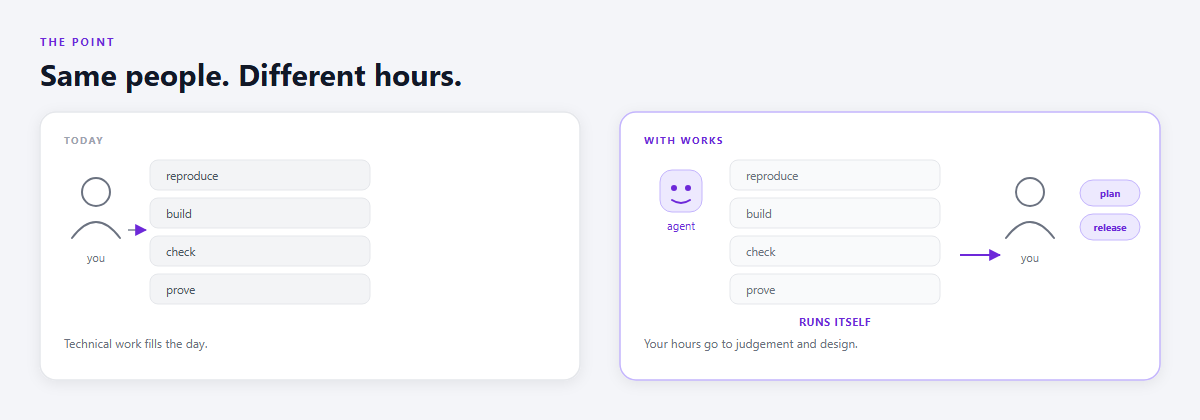
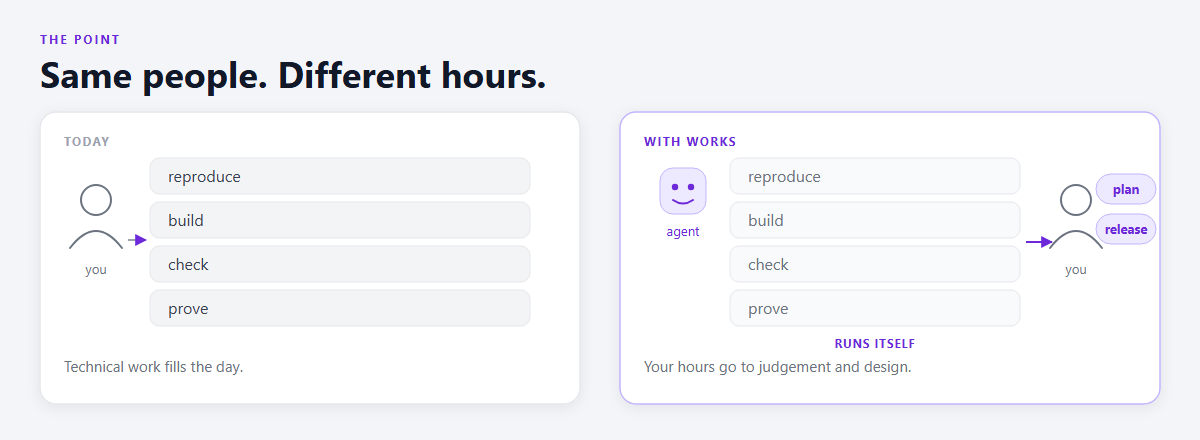
docs: make the point diagram fill the width and stay readable

diff --git a/README.md b/README.md
@@ -29,7 +29,7 @@ plan and the release — and spend their time on the problems that actually need
 team whose hours go to judgement and design.
 
 <div align="center">
-  <img src="docs/ui/the-point.png" alt="Today technical work fills the day; with Works the agent runs reproduce, build, check and prove, and the person makes the plan and release decisions" width="62%" />
+  <img src="docs/ui/the-point.png" alt="Today technical work fills the day; with Works the agent runs reproduce, build, check and prove, and the person makes the plan and release decisions" width="100%" />
 </div>
 
 ## What it does
